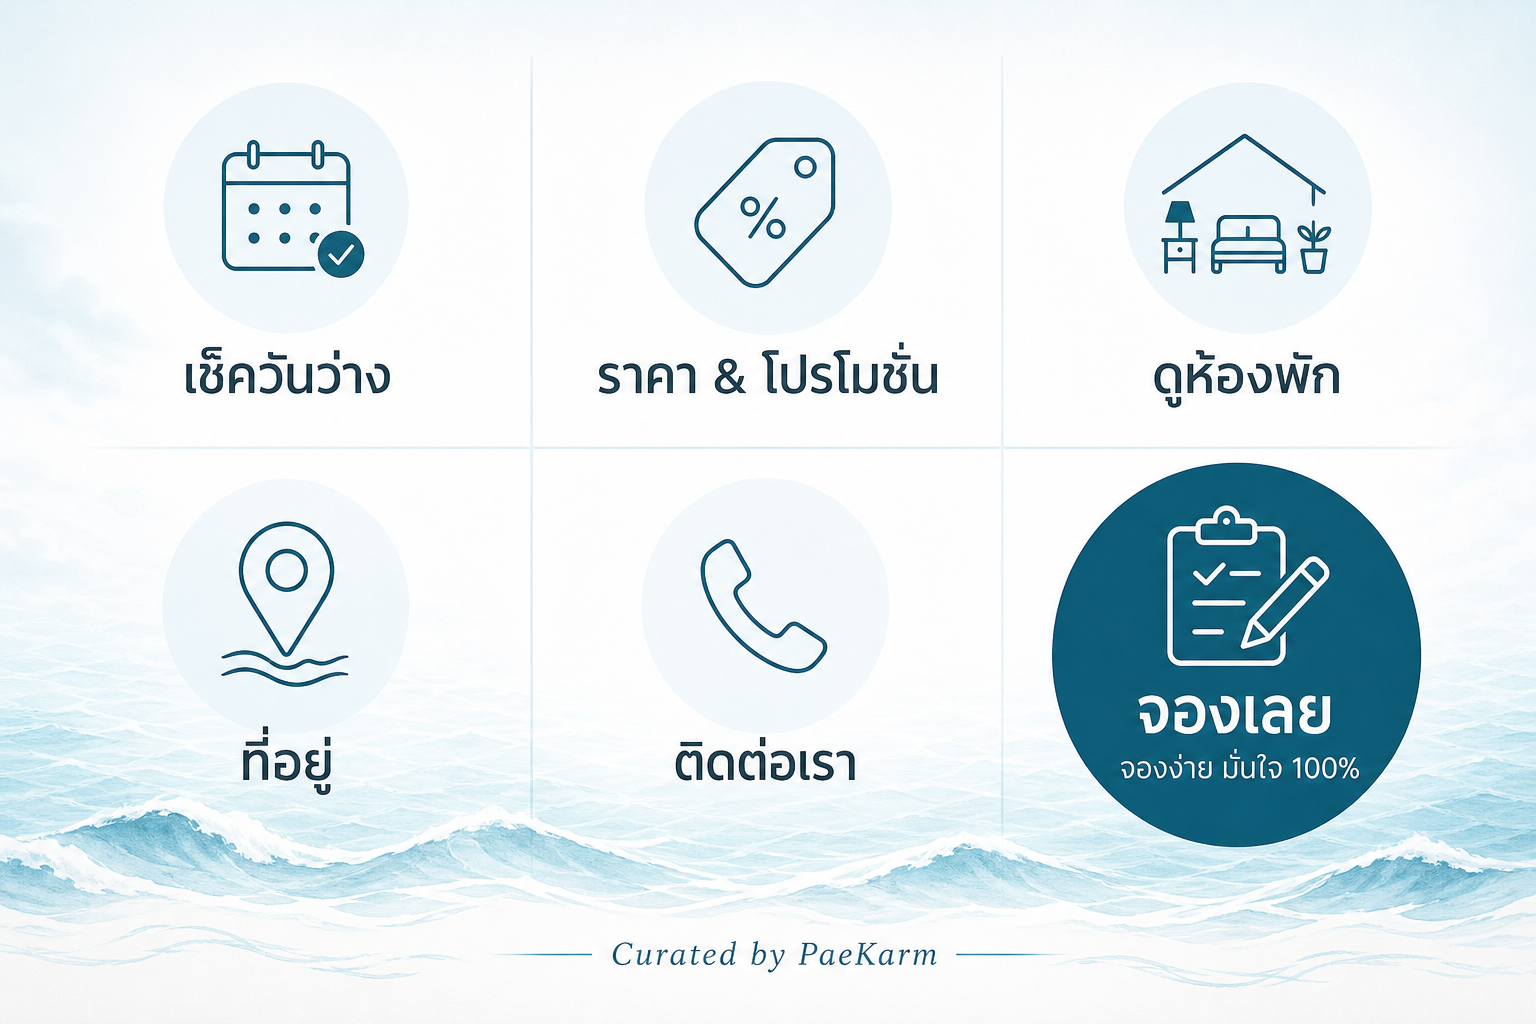
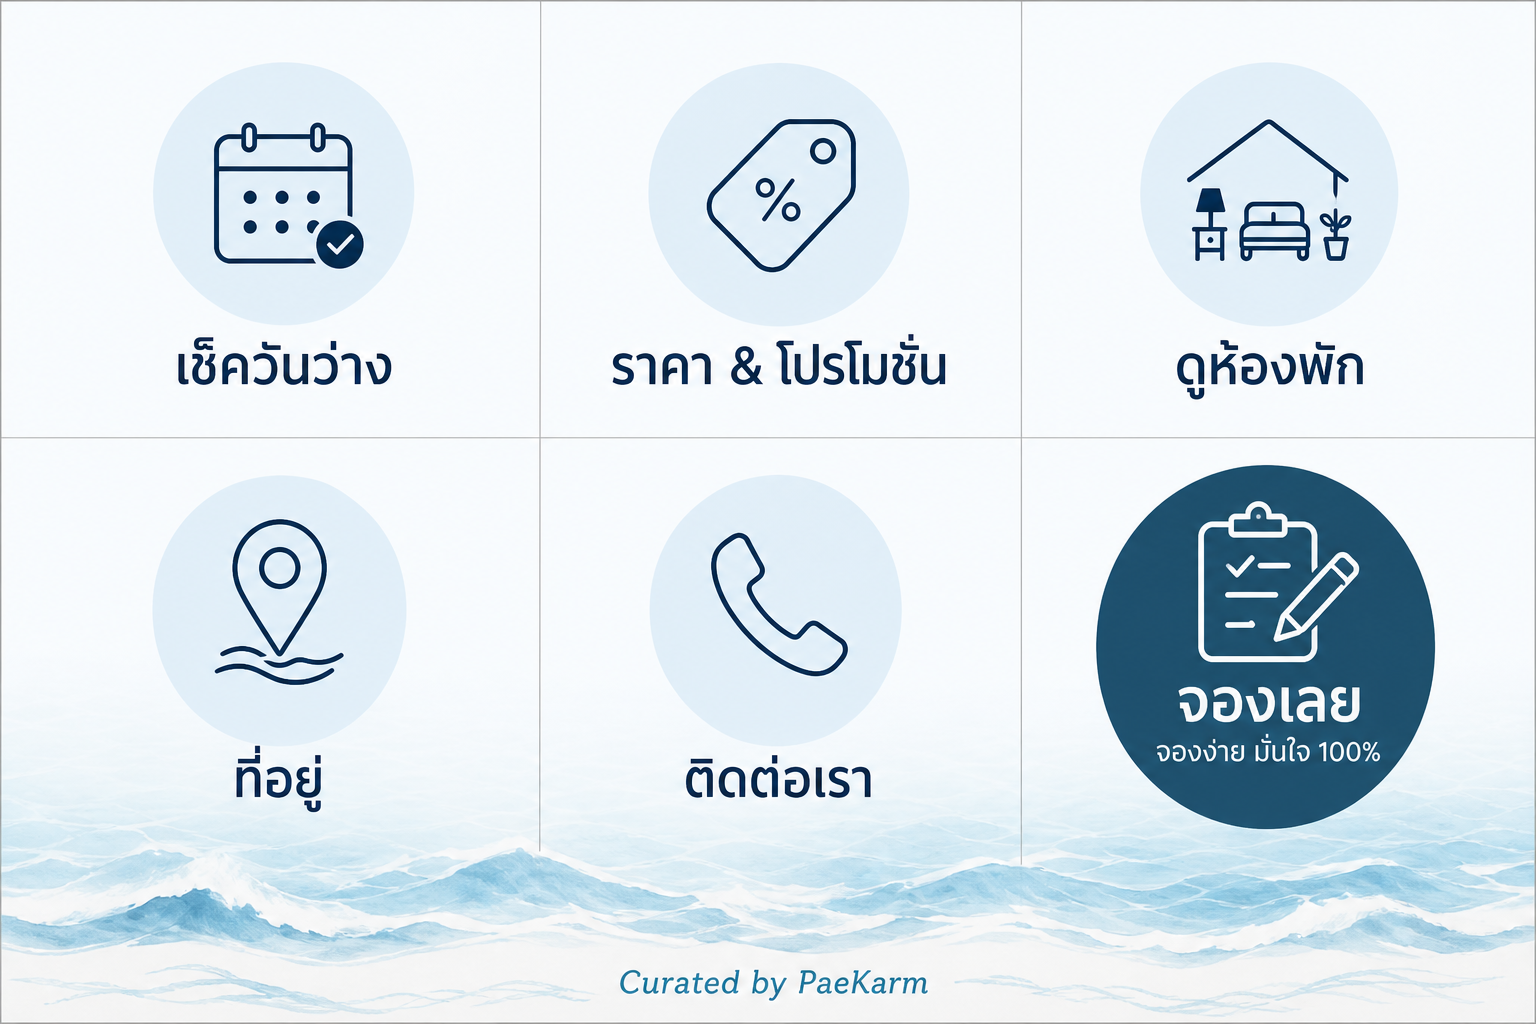
fix: Rich Menu image center-crop to 2500x843 ratio + new wide template

diff --git a/app/Services/PropertyLineService.php b/app/Services/PropertyLineService.php
@@ -541,7 +541,26 @@ class PropertyLineService
 
         $white = imagecolorallocate($dst, 255, 255, 255);
         imagefilledrectangle($dst, 0, 0, $tw - 1, $th - 1, $white);
-        imagecopyresampled($dst, $src, 0, 0, 0, 0, $tw, $th, imagesx($src), imagesy($src));
+
+        // center-crop ให้ได้สัดส่วน 2500:843 — ไม่บีบรูป
+        $sw = imagesx($src);
+        $sh = imagesy($src);
+        $targetRatio = $tw / $th;
+        $srcRatio    = $sw / $sh;
+
+        if ($srcRatio > $targetRatio) {
+            $cropH = $sh;
+            $cropW = (int)round($sh * $targetRatio);
+            $srcX  = (int)(($sw - $cropW) / 2);
+            $srcY  = 0;
+        } else {
+            $cropW = $sw;
+            $cropH = (int)round($sw / $targetRatio);
+            $srcX  = 0;
+            $srcY  = (int)(($sh - $cropH) / 2);
+        }
+
+        imagecopyresampled($dst, $src, 0, 0, $srcX, $srcY, $tw, $th, $cropW, $cropH);
         imagedestroy($src);
 
         $maxBytes = 950 * 1024; // LINE จำกัด 1MB — เหลือ buffer
